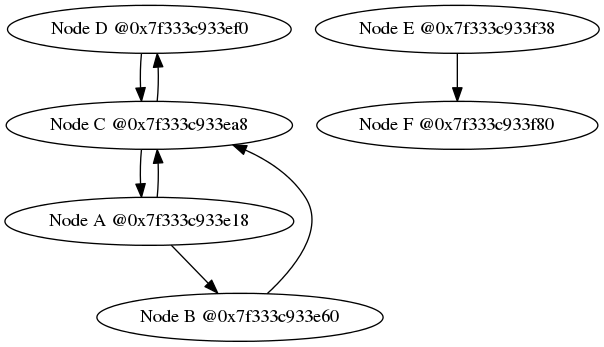
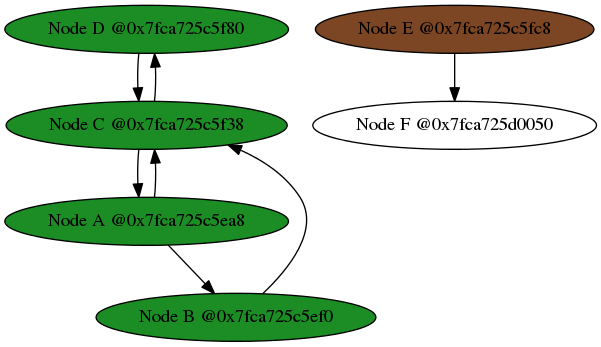
added better visualization of graphs

diff --git a/draw_graph.py b/draw_graph.py
@@ -1,35 +1,73 @@
 #!/usr/bin/python
 import pydot
 import graph as LB
+import random
+
+def hex_color():
+  r = lambda: random.randint(0,255)
+  return '#%02X%02X%02X' % (r(),r(),r())
 
 # Draw the graph and generate
 def draw_graph(G, name='output_graph'):
   graph = pydot.Dot('Forest')
+  scc_colors = {}
+  visited_nodes = {}
+
   for node in G.edges:
-    for s_node in G.edges[node]:
-      edge = pydot.Edge(str(node), str(s_node))
+    col = hex_color()
+    while col in scc_colors:
+      col = hex_color()
+    scc = G.inverse_components[node]
+    if scc in scc_colors:
+      col = scc_colors[scc]
+    scc_colors[scc] = col
+
+    if node not in visited_nodes:
+      pydot_snode = pydot.Node(str(node), style="filled", fillcolor=col)
+      visited_nodes[node] = pydot_snode
+      graph.add_node(pydot_snode)
+
+    for e_node in G.edges[node]:
+      if e_node not in visited_nodes:
+        col = hex_color()
+        while col in scc_colors:
+          col = hex_color()
+        scc = G.inverse_components[e_node]
+        if scc in scc_colors:
+          col = scc_colors[scc]
+        scc_colors[scc] = col
+
+        pydot_enode = pydot.Node(str(e_node), style="filled", fillcolor=col)
+        edge = pydot.Edge(pydot_snode, pydot_enode)
+      else:
+        edge = pydot.Edge(pydot_snode, visited_nodes[e_node])
       graph.add_edge(edge)
   graph.write_png(name + '.png')
 
-def draw_scc_graph(G, name='scc_graph'):
-  graph = pydot.Dot('Forest')
-  visited = set()
-  print ""
-  print "SCC Nodes:"
-  print "----------"
-  for component in G.components:
-    if component not in visited:
-      nodes = G.components[component]
-      f_node = LB.Node(nodes)
-      graph.add_node(pydot.Node(str(f_node)))
-      print nodes
-      for node in nodes:
-        if node in G.edges:
-          for s_node in G.edges[node]:
-            if s_node not in nodes:
-              edge = pydot.Edge(str(f_node), str(s_node))
-              graph.add_edge(edge)
-  graph.write_png(name + '.png')
+# def draw_scc_graph(G, name='scc_graph'):
+#   graph = pydot.Dot('Forest')
+#   print ""
+#   print "SCC Nodes:"
+#   print "----------"
+#   for component in G.components:
+#     nodes = G.components[component]
+#     f_node = LB.Node(nodes)
+#     graph.add_node(pydot.Node(str(f_node)))
+
+
+#     print nodes
+#     for node in nodes:
+#       if node in G.inter_edges:
+#         e_nodes = G.inter_edges[node]
+#         for e_node in e_nodes:
+
+
+#       # if node in G.edges:
+#       #   for s_node in G.edges[node]:
+#       #     if s_node not in nodes:
+#       #       edge = pydot.Edge(str(f_node), str(s_node))
+#       #       graph.add_edge(edge)
+#   graph.write_png(name + '.png')
 
 def print_edges(edges):
   for s_node in edges:
@@ -68,33 +106,33 @@ G.compute_scc()
 G.optimized_remove_edges(set([e8, e9]))
 
 
-print "INTRA-EDGES"
-print "-----------------"
-print_edges(G.intra_edges)
-print "END"
-print ""
+# print "INTRA-EDGES"
+# print "-----------------"
+# print_edges(G.intra_edges)
+# print "END"
+# print ""
 
-print "INTER-EDGES"
-print "-----------------"
-print_edges(G.inter_edges)
-print "END"
-print ""
+# print "INTER-EDGES"
+# print "-----------------"
+# print_edges(G.inter_edges)
+# print "END"
+# print ""
 
-print "INVERSE-COMPONENTS"
-print "--------------------"
-for node in G.inverse_components:
-  print node
+# print "INVERSE-COMPONENTS"
+# print "--------------------"
+# for node in G.inverse_components:
+#   print node
 
-print "COMPONENTS"
-print "-----------"
-for scc in G.components:
-  print "----SCC----"
-  for node in G.components[scc]:
-    print node
+# print "COMPONENTS"
+# print "-----------"
+# for scc in G.components:
+#   print "----SCC----"
+#   for node in G.components[scc]:
+#     print node
 
 #LB.print_graph(G)
 #print "----------------------------------------"
 #G.delete(set([e6]))
 #LB.print_graph(G)
 draw_graph(G)
-draw_scc_graph(G)
+# draw_scc_graph(G)

diff --git a/graph.py b/graph.py
@@ -154,10 +154,6 @@ class Graph:
     Optimized bulk removal of edges
     @param edges: a set of edges to be removed
     """
-    print self.components.keys()
-    print self.scc_num
-    print self.components
-    print "-----****-----"
     check_scc = set()
     for edge in edges:
       s_node, e_node = edge.nodes
@@ -169,11 +165,6 @@ class Graph:
     for scc in check_scc:
       nodes = self.components[scc]
       components, inverse_components = self.compute_partial_scc(nodes)
-      print scc
-      print self.components[scc]
-      print components.keys()
-      print components
-      print inverse_components
 
       # If the component got split up, we need to merge the results in
       # 1. Delete the scc from self.components
@@ -216,7 +207,7 @@ class Graph:
       if len(components[scc]) == 1 and node in self.intra_edges:
         if node not in self.inter_edges:
           self.inter_edges[node] = set()
-        self.inter_edges[node] = self.inter_edges[node] & self.intra_edges[node]
+        self.inter_edges[node] = self.inter_edges[node] | self.intra_edges[node]
         del self.intra_edges[node]
       else:
         # The node was part of an SCC, is still now part of an SCC, 
